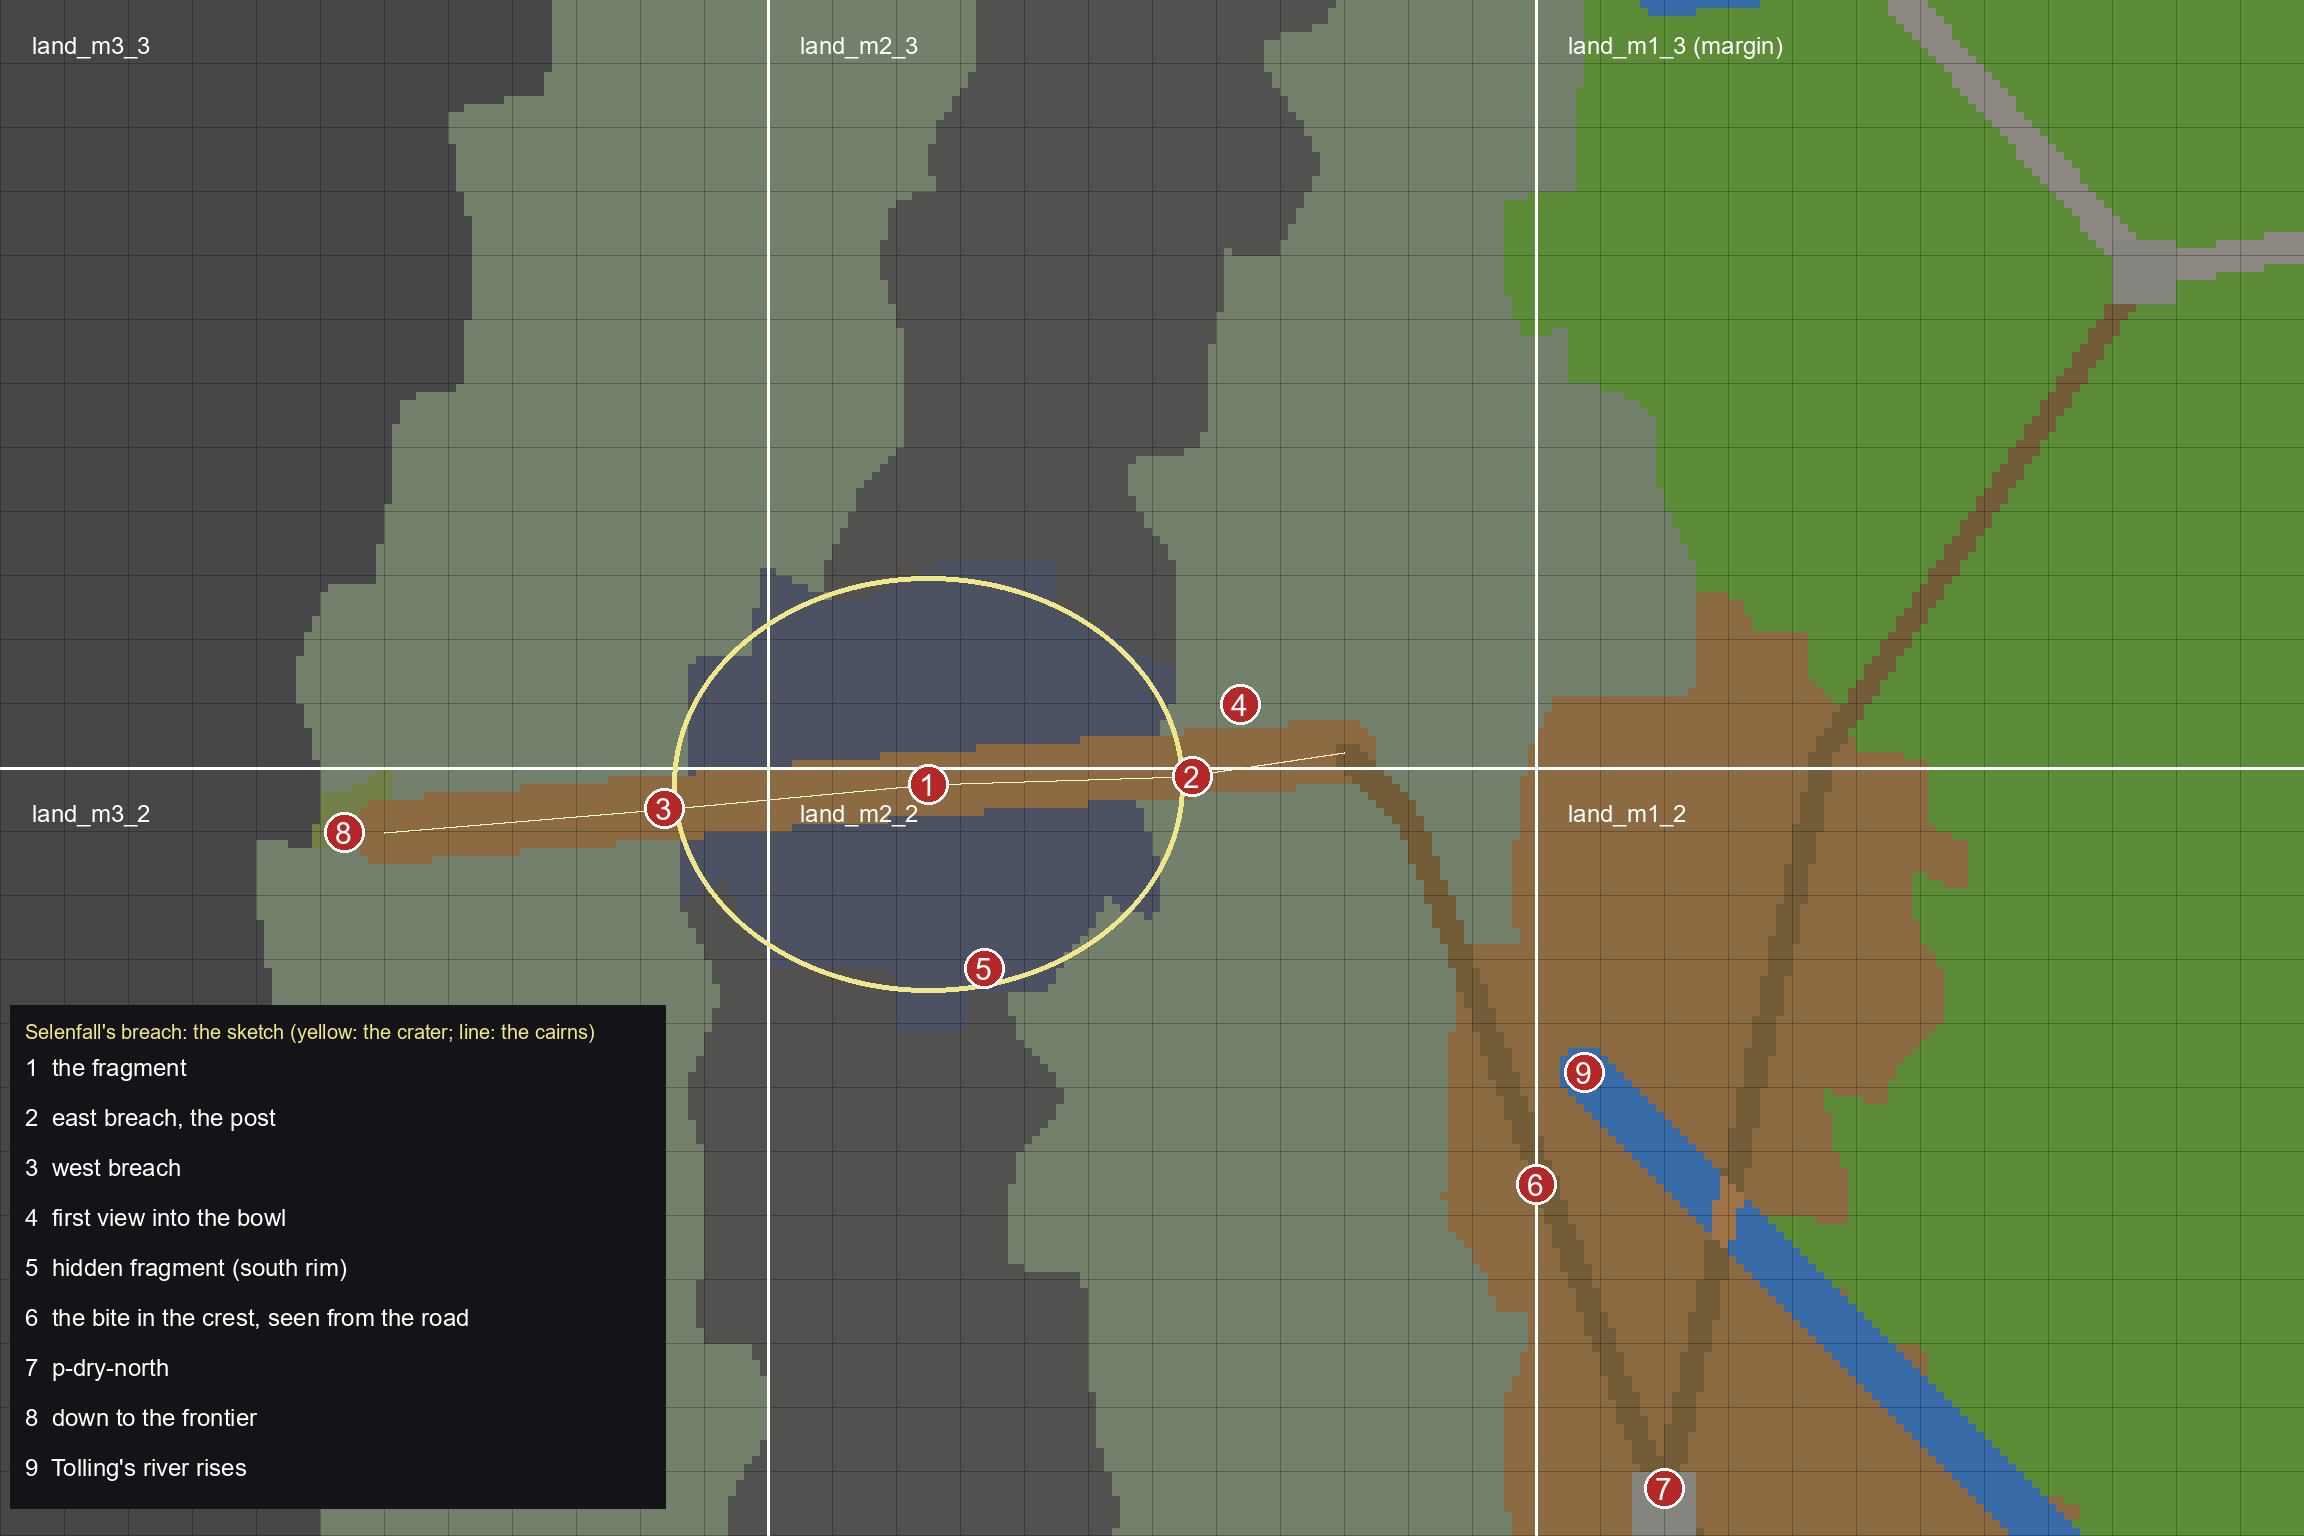
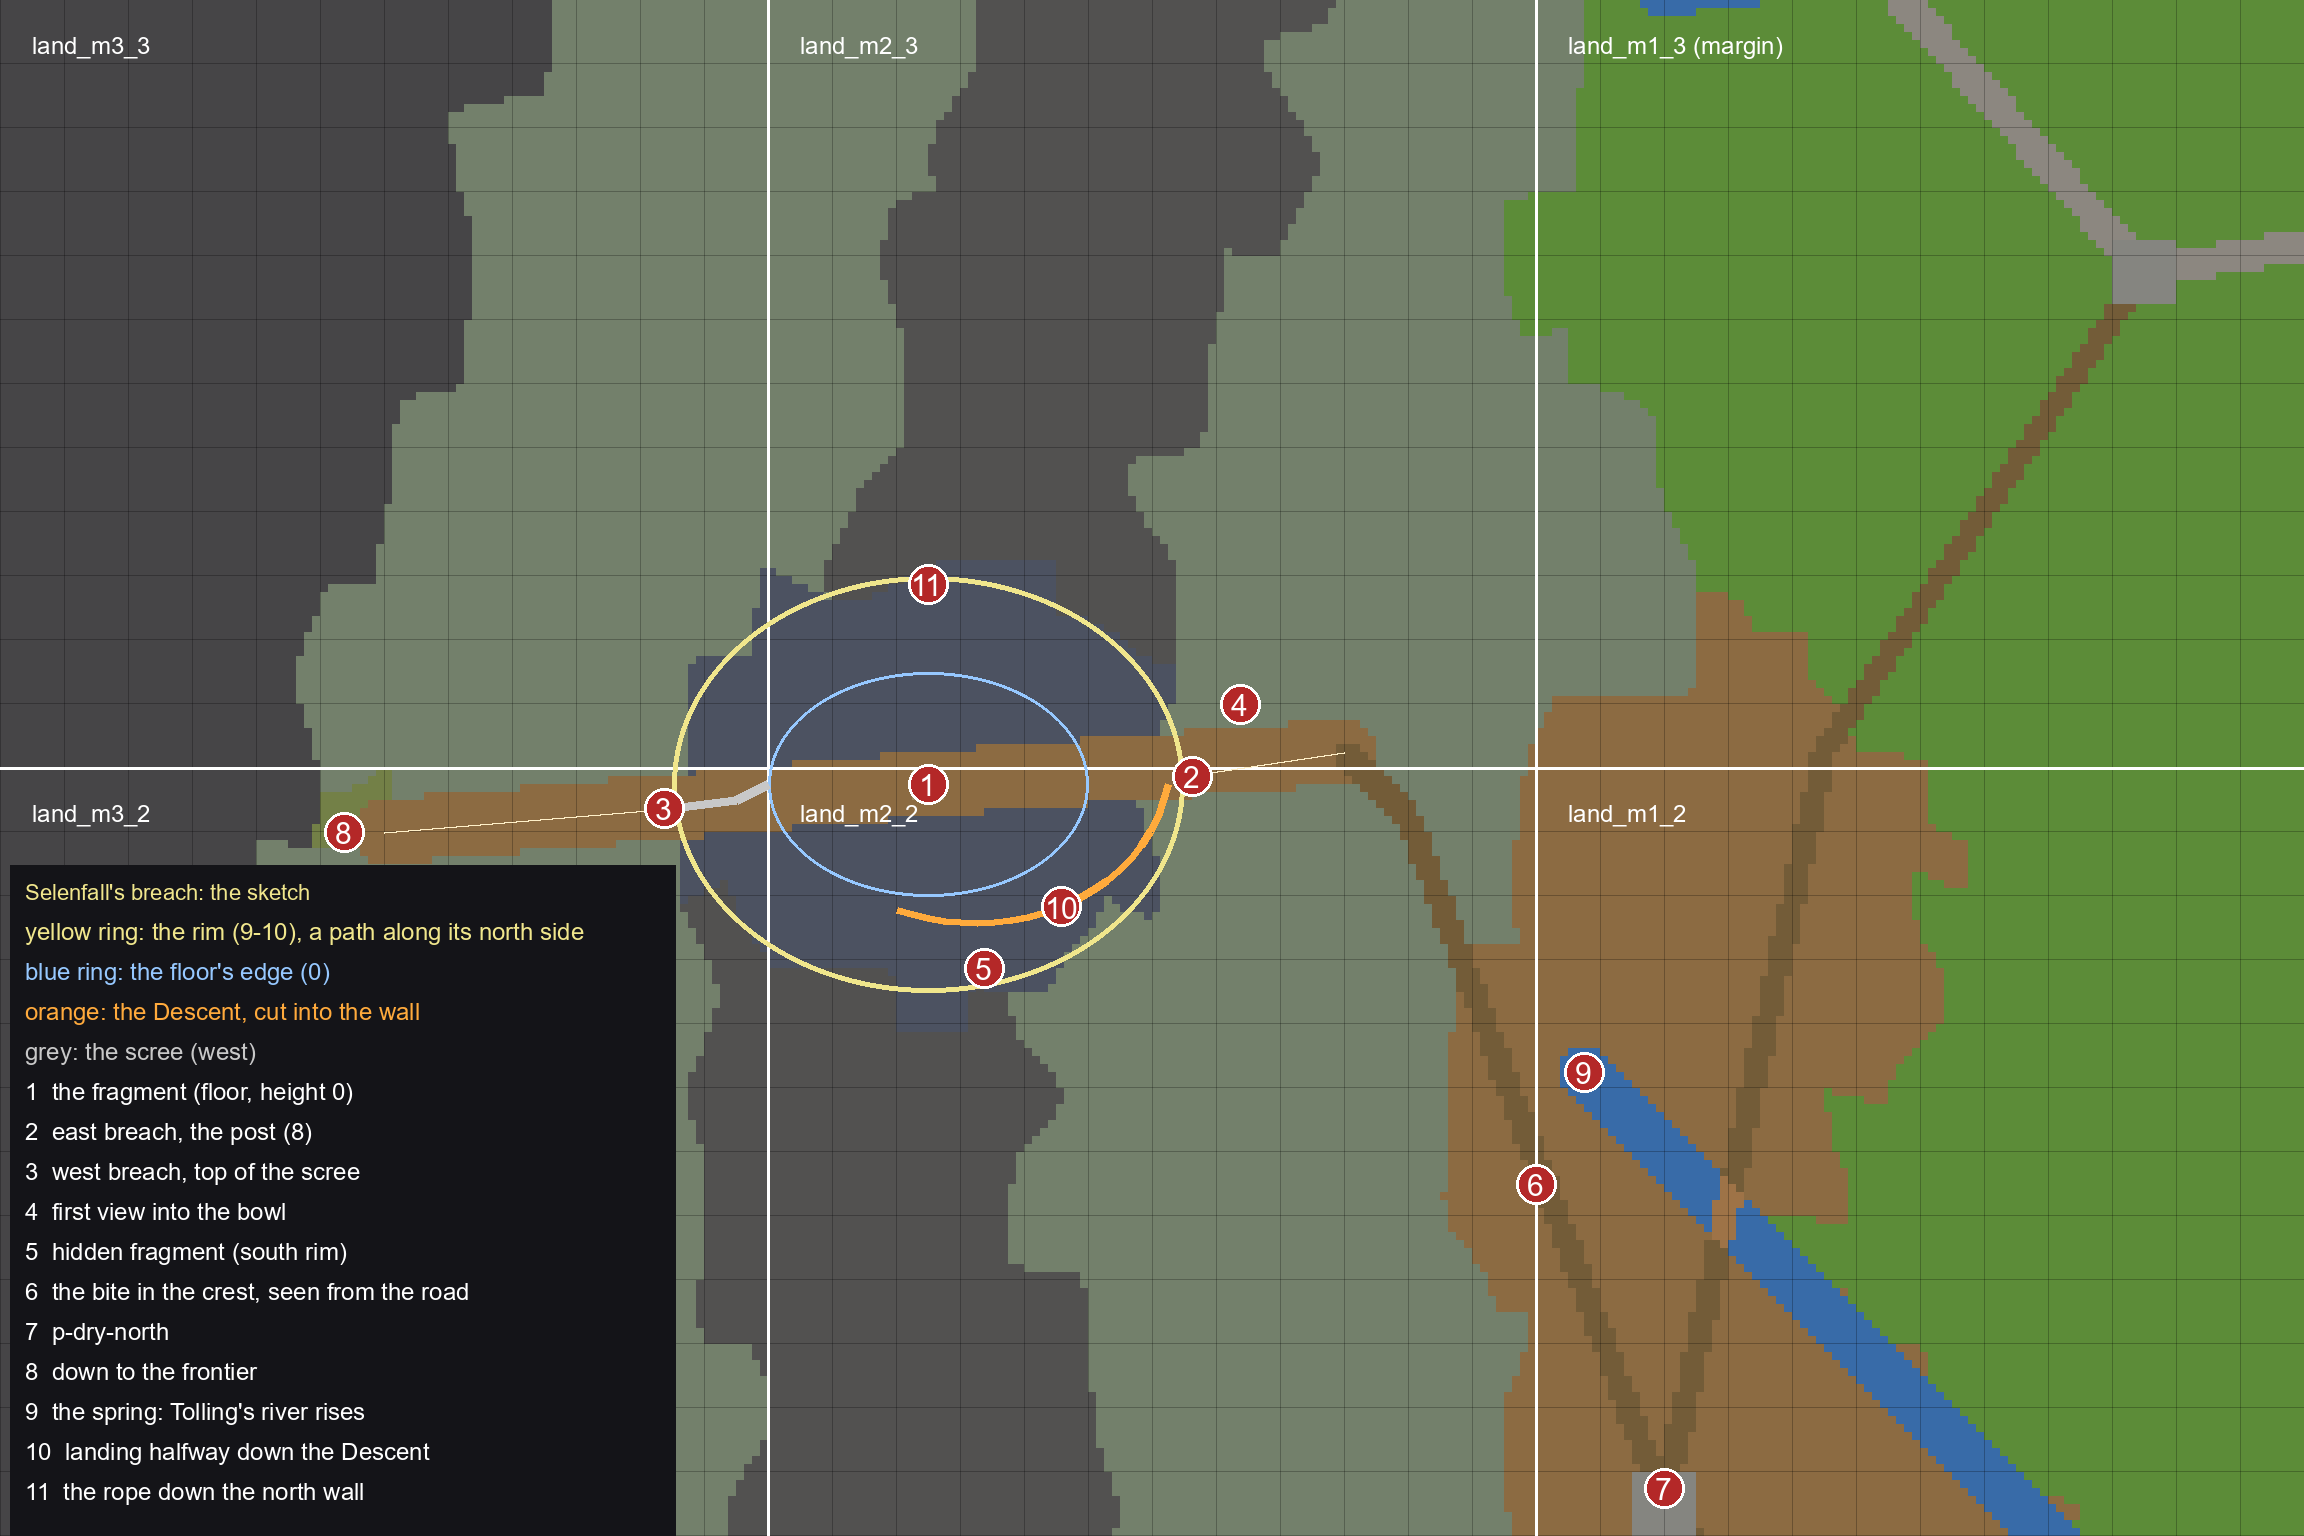
Selenfall brief approved: a deeper crater (rim 9-10, floor 0), built ways down (the Descent, the scree, the rope), its own cold light, the river's spring

diff --git a/docs/areas/selenfall.md b/docs/areas/selenfall.md
@@ -1,6 +1,7 @@
 # Selenfall's breach: the brief
 
-**Status:** draft for the owner (2026-10-23). The first area built by hand through the process in
+**Status:** approved by the owner (2026-10-23), with a deeper crater and built ways down into
+it; the owner's notes are worked in below. The first area built by hand through the process in
 [world-guide.md](../world-guide.md), terrain included; [world-example.md](../world-example.md) is the
 template. Nothing in the world changes until the owner approves this page.
 
@@ -42,29 +43,54 @@ place where the land itself feels wrong, and its creatures are a step up from th
 - the crest's rock (`LandCrest`);
 - the scar itself: pale, cold, glassy slate (`LandScar`, today `Slate`).
 
-The farmland belongs to the margin. Light could be the place's own: a cooler, paler sun in the bowl
-(`ownAtmosphere` on the region).
+The farmland belongs to the margin.
+
+**Light (decided):** the bowl has its own, cold and pale: a cooler, weaker sun, a cold ambient and a
+faint bluish fog on the crater regions (`ownAtmosphere`), blended in as you go down. The depth earns
+it: the floor lies in the rim's shadow, and the only warm light down there is what people brought
+(the lanterns of the way down). The fragment and the moon rock give a faint glow of their own
+(stage 4).
 
 **The shape (geography, stage 1):**
 - **The crest** is the wall north and south: blocked rock standing about a storey above the
   highland, as the guide says.
-- **The crater** is a round bowl about 64 × 52 tiles, cut straight through the crest.
-  - Its **rim** is a raised ridge, highest where it meets the crest, lower and broken on the east
-    and west where the breaches are.
-  - Its **floor** sits below the highland on either side, so you walk *down* into it.
-  - Its inner walls are cliffs (1-3 tiles, blocked), except on the two slopes the breaches make.
-- **The breaches** are the only ways in: the east one from the empire's side (the road), the west
-  one down to the frontier. Each is a narrow ramp through the rim, a few tiles wide, climbing at
-  most what the guide allows.
-- **Heights, roughly** (in tiles; the whole world stays within about 16):
+- **The crater** is a deep, round pit about 64 × 52 tiles, cut straight through the crest.
+  - Its **rim** is a ridge of thrown-up rock, higher than the crest it broke (9-10 tiles), lower
+    only where the breaches cut it.
+  - Its **inner wall** is a band about 12 tiles wide falling 10 tiles: cliffs (blocked), except
+    where a way down is cut or has fallen.
+  - Its **floor** is flat and broad, about 40 × 28 tiles at height 0, with the fragment in the
+    middle and room around it for creatures, seams and a fight. A slight hollow round the fragment
+    is the only unevenness.
+- **Heights** (in tiles; the whole world stays within about 16, and a tile steeper than 1 is a
+  cliff):
 
   | Where | Height |
   | --- | --- |
   | the approach and the village | 0-1 |
-  | the highland foothills | 2-4 |
-  | the crest's rock tops | about 6 |
-  | the rim | 6-8, highest at the crest |
-  | the bowl's floor | about 2, with a lowest point near the fragment |
+  | the highland foothills | 2-5, rising west |
+  | the crest's rock tops | about 6-7 |
+  | the rim | 9-10 |
+  | the breach notches in the rim | about 8 |
+  | the floor | 0 |
+  | the frontier side, below the west breach | about 2 |
+
+**The ways down (decided: people built them).** Ten tiles is too deep to walk straight down: at the
+guide's 1 in 3, a way down is about 30 tiles long. So each way in is a route along the wall, not a
+gap in it.
+
+- **The Descent (east), built.** The spine's surface people cut a road into the inner wall. It
+  starts from their post at the east breach and runs down along the wall as a ledge, three tiles
+  wide, through a quarter of the crater. A turn halfway down is a landing with a view. A low wall
+  stands on the drop side and lanterns line the way. It is the easy way, and the one the empire's
+  road leads to.
+- **The scree (west), natural.** Where the fall threw its rock out west, the wall collapsed into a
+  long, broken slope of rubble. It is walkable but narrow between boulders, longer and rougher than
+  the Descent, and leads up to the west breach and down to the frontier.
+- **The rope (north), a shortcut.** A rope ladder hangs down the north wall where the rim is
+  highest: a skill shortcut (a `climb` with requirements) from the rim path to the floor.
+- **Along the rim:** a path follows the rim's top between the two breaches on the north side, for
+  the view and to reach the rope.
 
 **Landmarks and views:**
 - **The bite in the crest,** seen from the road above p-dry-north: the one skyline of the area.
@@ -72,26 +98,31 @@ The farmland belongs to the margin. Light could be the place's own: a cooler, pa
   of moon rock on open floor, at least as wide around it as it is tall. It is the only thing in the
   bowl taller than a person. The moon materials already started under `Assets/Art/Fx` (`MoonFragment`,
   `MoonGlow`) are for it.
-- **The rim at the east breach,** the first view into the bowl: the whole crater at once, the
-  fragment in the middle, the west breach opposite.
+- **The rim at the east breach,** the first view into the bowl: the whole crater at once, ten
+  tiles down, with the fragment in the middle, the Descent's lanterns curving away below and the
+  scree opposite.
+- **The landing halfway down the Descent:** the floor close enough to see what moves on it.
 - **Back east from the breach:** the empire's farmland and Tolling's river below.
 
 **Routes:**
 - **In from the east:** the road from p-dry-north (`selenfall-road` in the layout) climbs the
-  foothills to the east breach. It passes the spring where Tolling's river rises, so the river the
-  player knows from home starts here.
-- **Through:** down into the bowl, past the fragment, up the west breach.
+  foothills to the east breach. It passes a spring where Tolling's river rises: a small pool beside
+  the road, a landmark of the approach (decided; no lore claim beyond "the river rises here").
+- **Through:** down the Descent, across the floor past the fragment, up the scree to the west
+  breach.
 - **Out:** down into the frontier (the pass's west end, about x -240).
 - The road on south from p-dry-north to p-observatory, Magister Varrow's country, is the margin's,
   not this area's. It is the reason for a later link: she forecasts falls.
 
-**Wide and narrow:** wide on the approach, narrow at each breach (the chokepoints), wide again on
-the bowl's floor: an open arena between two gates.
+**Wide and narrow:** wide on the approach; narrow at each breach and along the Descent and the
+scree (the chokepoints); wide on the floor, an open arena below two ways down.
 
 **Edges:**
 - the crest's rock north and south, and the crater's inner cliffs;
 - to the west, the frontier beyond the foothills is fenced by rough ground and rock;
 - never an invisible line in open ground.
+
+*Stages 2-3 below are approved as written (2026-10-23) and revisited after stage 1 is walked.*
 
 **Something to find:** a second, small fragment hidden in a fold of the south rim, reached by a
 scramble (later a skill shortcut: a `climb` with requirements), with something growing around it.
@@ -107,11 +138,13 @@ scramble (later a skill shortcut: a `climb` with requirements), with something g
 - Before the fall there was no way over the crest here; the fall made one.
 - Old cairns mark the first crossings along the breach's line, older than the road.
 - The surface people's post at the east breach is newer, and the empire's road ends at it.
+- The Descent is their work: older stretches of it, worn and fallen, show below the newer wall.
 
 **Danger:**
 - the approach is gentle;
 - the highland is emptier and harsher;
-- the bowl is cold and pale, quiet before it is dangerous.
+- the Descent is safe while its lanterns last;
+- the floor is cold and pale, quiet before it is dangerous.
 
 ## How we build it
 
@@ -132,7 +165,14 @@ The steps in [world-example.md](../world-example.md), adjusted for this area:
 5. **Stages 2-4:** structure (the post, the cairns, the village's edge), life (seams, creatures),
    finish (the fragment's art, the light).
 
-Decisions this area raises for the owner:
-- the heights above;
-- whether the bowl has its own light;
-- the D4 camera profile, since walking the bowl is the first real test of looking across height.
+What stage 1 needs that the tools can't do yet:
+- **Terrain** writes the pit, the rim and the scree; the ledge of the Descent is terrain too (tiles
+  stepping down gently beside steep ones).
+- **The Descent's low wall and the landing** are built structure (stage 2), but its line is fixed
+  in stage 1.
+- **The rope** is an object (stage 2).
+- **Entrances and exits as data** and the seam check for walking (C6) come when the margin is
+  joined.
+
+Still open: the camera profile (D4). Compare both profiles in Settings while walking the bowl, and
+decide then.
